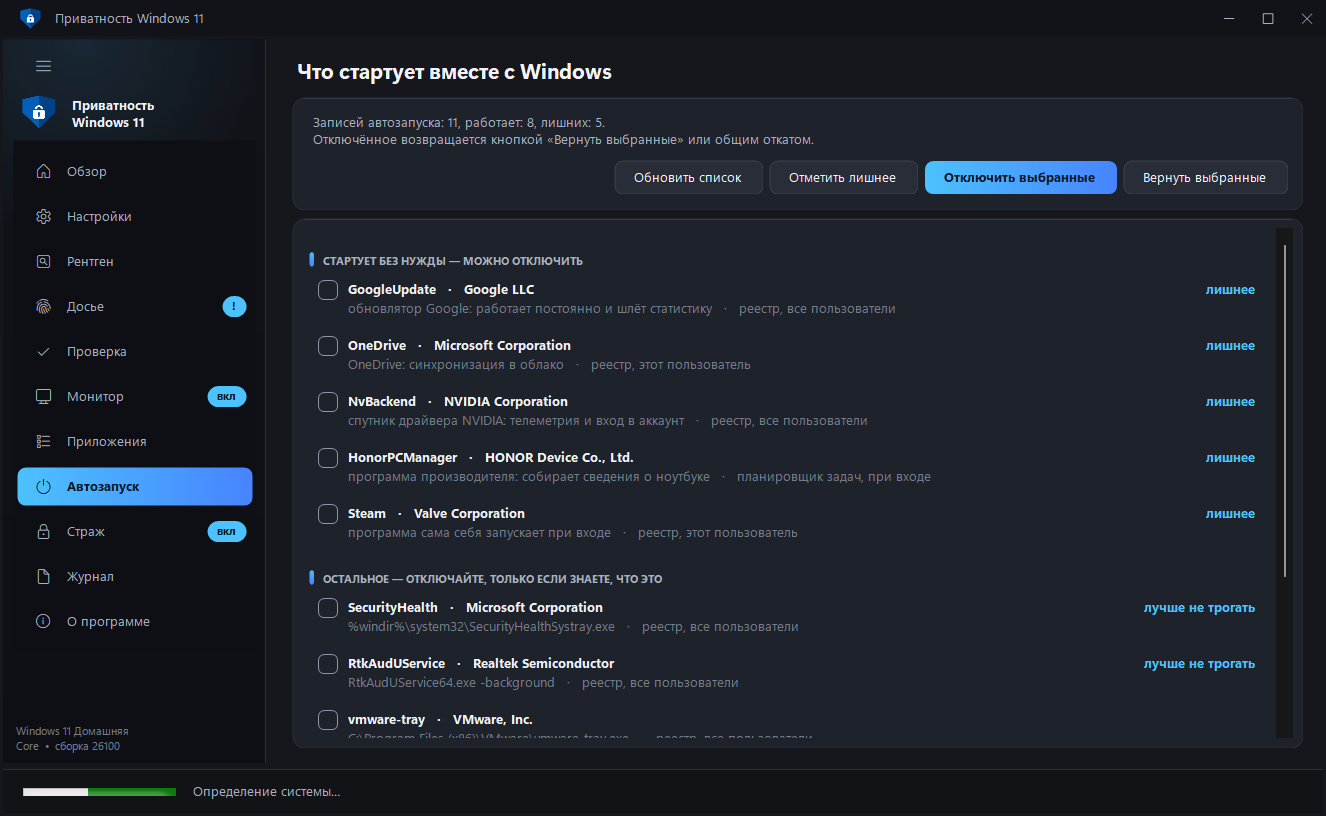
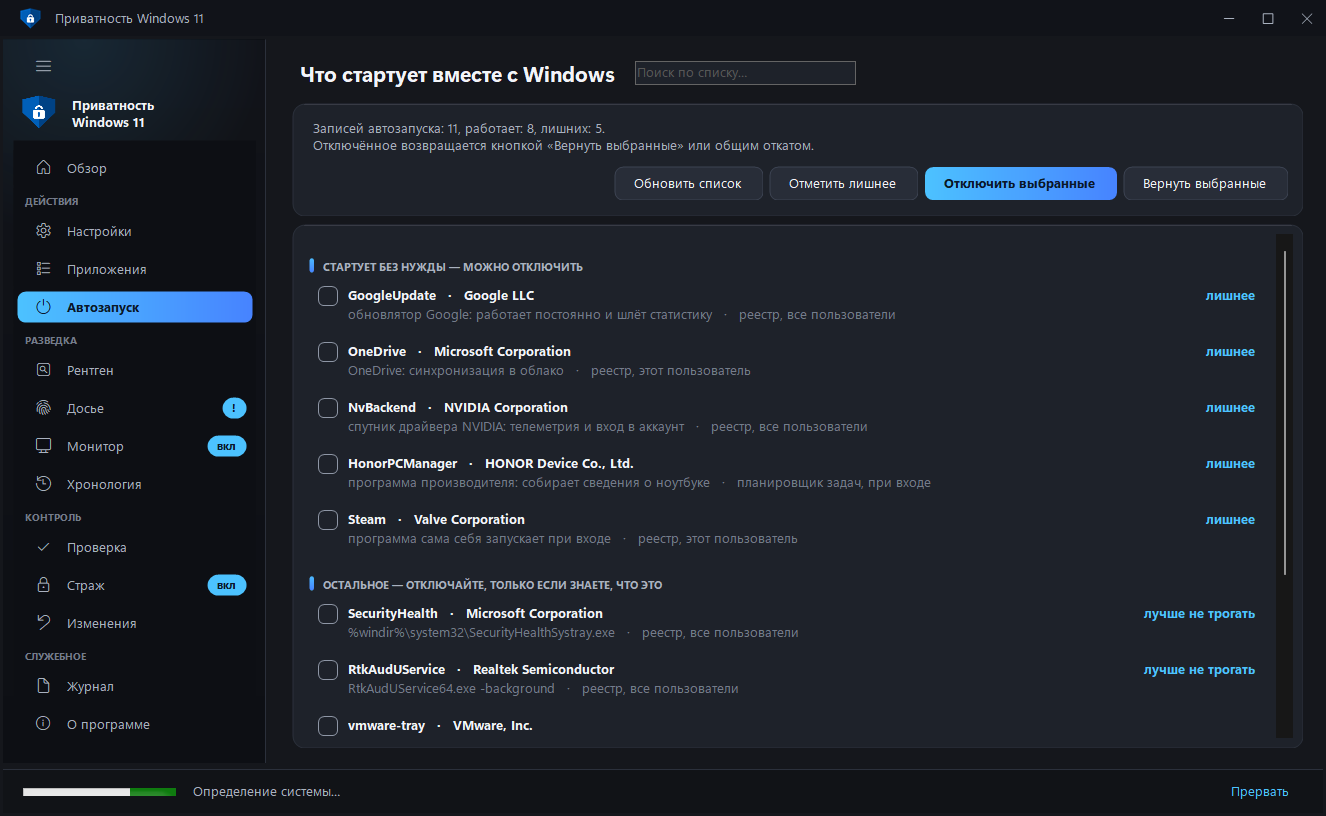
Английский интерфейс был наполовину русским — и это было видно на снимках
Скриншоты в английском README оказались русскими, но переснять их было мало:
часть подписей приходит от движка данными, а не литералами интерфейса, и
tools/check_lang.py их не видел — он читал только исходники C#. В английской
сборке по-русски оставались названия и описания фактов рентгена, категории
телеметрии, названия предустановленных приложений, подписи файлов на «О
программе» и слова «было / стало / где» на «Изменениях».

- переведено 85 строк движка (lang-en6.txt), словарь 1016 -> 1099 пар;
- «Изменения» пропускают «было / стало / где» через перевод: движок отдаёт
  их словами («запускалась», «не было», «автозагрузка»);
- проверка перевода теперь читает и движок: title/what/was/now/where и
  словари вида «идентификатор = человеческое название». Проверено: если
  убрать перевод строки движка, tools/check_lang.py падает;
- тестовые данные больше не прибиты по-русски и называют настройки теми же
  именами, что и движок;
- сняты оба комплекта снимков: docs/ — русские, docs/en/ — английские,
  английский README ссылается на свои. Заодно на них виден нынешний вид:
  группы в боковой панели и полоса внимания.

diff --git a/Lang.cs b/Lang.cs
@@ -40,7 +40,7 @@ namespace Win11Privacy
 
         private static void Build()
         {
-            _map = new Dictionary<string, string>(1016, StringComparer.Ordinal);
+            _map = new Dictionary<string, string>(1099, StringComparer.Ordinal);
             _map[" ч"] = " h";
             _map[" МБ"] = " MB";
             _map[" ч "] = " h ";
@@ -1057,6 +1057,89 @@ namespace Win11Privacy
             _map["Текстовый файл (*.txt)|*.txt"] = "Text file (*.txt)|*.txt";
             _map["Приватность Windows 11, версия "] = "Windows 11 Privacy, version ";
             _map["Журнал сохранён: "] = "Log saved: ";
+            _map["Названия установленных программ"] = "Names of installed programs";
+            _map["Windows перечисляет, что у вас стоит: имя, издатель и версия каждой программы."] = "Windows lists what you have: the name, publisher and version of every program.";
+            _map["Имена запускавшихся файлов"] = "Names of the files you ran";
+            _map["В событиях видно, какие исполняемые файлы вы открывали."] = "The events show which executables you opened.";
+            _map["Модель и производитель компьютера"] = "Model and maker of the computer";
+            _map["Точная модель железа — по ней устройство узнаётся среди прочих."] = "The exact hardware model — it tells this device apart from the rest.";
+            _map["Идентификаторы, которыми вас метят"] = "The identifiers you are tagged with";
+            _map["Постоянные номера устройства и учётной записи: по ним события связываются в один профиль."] = "Permanent device and account numbers: they tie the events into a single profile.";
+            _map["Серийные номера железа"] = "Hardware serial numbers";
+            _map["Серийный номер не меняется никогда — это самая надёжная метка устройства."] = "A serial number never changes — it is the most reliable mark of a device.";
+            _map["Начинка компьютера"] = "What is inside the computer";
+            _map["Процессор, память, диски и видеокарта — подробная опись железа."] = "Processor, memory, drives and graphics card — a detailed hardware inventory.";
+            _map["Сетевые адреса и имена сетей"] = "Network addresses and network names";
+            _map["MAC-адрес и названия сетей говорят, где физически стоит компьютер."] = "The MAC address and network names tell where the computer physically stands.";
+            _map["Учётная запись и язык"] = "Account and language";
+            _map["Имя пользователя, страна, часовой пояс и раскладка."] = "User name, country, time zone and keyboard layout.";
+            _map["Всё, что вы подключали: принтеры, флешки, наушники, телефоны."] = "Everything you have plugged in: printers, USB sticks, headphones, phones.";
+            _map["Сбои программ с их именами"] = "Program crashes, with their names";
+            _map["Имена упавших программ и модулей — заодно видно, чем вы пользуетесь."] = "Names of crashed programs and modules — which also shows what you use.";
+            _map["Какие программы стоят на компьютере, их версии и издатели"] = "Which programs are installed, their versions and publishers";
+            _map["Что открывал, сколько времени провёл, как часто"] = "What you opened, how long you spent there, how often";
+            _map["Модель ноутбука, процессор, память, диски, серийные номера"] = "Laptop model, processor, memory, drives, serial numbers";
+            _map["Флешки, наушники, принтеры, мыши — что и когда подключал"] = "USB sticks, headphones, printers, mice — what was plugged in and when";
+            _map["Какие программы падали, с какими ошибками, имена файлов"] = "Which programs crashed, with what errors, the file names";
+            _map["Активность в браузере, посещения, проверки сайтов"] = "Browser activity, visits, site checks";
+            _map["Установка обновлений, версии, ошибки установки"] = "Update installation, versions, installation errors";
+            _map["Состояние защиты, проверки, обнаружения"] = "Protection status, scans, detections";
+            _map["Где находится компьютер, окружающие сети"] = "Where the computer is, the networks around it";
+            _map["Сетевые подключения, качество связи"] = "Network connections, link quality";
+            _map["Работа с документами и облаком"] = "Working with documents and the cloud";
+            _map["Установки из магазина, покупки, игровая активность"] = "Store installs, purchases, gaming activity";
+            _map["Что искал в меню Пуск и как использовался поиск"] = "What you searched for in the Start menu and how search was used";
+            _map["Входы в систему, привязка к учётной записи Microsoft"] = "Sign-ins and the link to a Microsoft account";
+            _map["Когда включал и выключал, время работы"] = "When it was switched on and off, and for how long";
+            _map["Служебные события самой системы сбора данных"] = "Internal events of the data collection system itself";
+            _map["События, не попавшие в известные категории"] = "Events that did not fall into any known category";
+            _map["История датчиков по дням: кто включал камеру, микрофон и геолокацию"] = "Sensor history by day: who turned on the camera, microphone and location";
+            _map["Журнал изменений: что программа поменяла и что было до неё"] = "Change journal: what the program altered and what was there before it";
+            _map["Снимок «до»: состояние системы перед первым применением"] = "The \"before\" snapshot: the state of the system prior to the first run";
+            _map["Последняя проверка стража"] = "The guard's last check";
+            _map["Журнал работы стража"] = "The guard's log";
+            _map["Профиль стража: какие разделы он сторожит"] = "The guard's profile: which sections it watches";
+            _map["Последний результат рентгена телеметрии"] = "The latest telemetry X-ray result";
+            _map["Эталон рентгена: сколько событий уходило до настройки"] = "X-ray baseline: how many events left before the settings were applied";
+            _map["Известные записи автозагрузки — по ним страж замечает новые"] = "Known startup entries — the guard spots new ones against them";
+            _map["Список программ, которым доступ к датчикам уже известен"] = "Programs whose access to the sensors is already known";
+            _map["Снимок состояния или служебный файл"] = "A state snapshot or an internal file";
+            _map["NVIDIA (драйвер и GeForce)"] = "NVIDIA (driver and GeForce)";
+            _map["запускалась"] = "used to start";
+            _map["была отключена"] = "was switched off";
+            _map["отключена"] = "switched off";
+            _map["не было"] = "not set";
+            _map["автозагрузка"] = "startup";
+            _map["на месте"] = "in place";
+            _map["сбито"] = "knocked out";
+            _map["Новости MSN"] = "MSN News";
+            _map["Погода MSN"] = "MSN Weather";
+            _map["Поиск Bing в Пуске"] = "Bing search in Start";
+            _map["Финансы MSN"] = "MSN Money";
+            _map["Спорт MSN"] = "MSN Sport";
+            _map["Видеоредактор Clipchamp"] = "Clipchamp video editor";
+            _map["Приложение Xbox"] = "Xbox app";
+            _map["Игровая панель Xbox"] = "Xbox Game Bar";
+            _map["Вход Xbox"] = "Xbox sign-in";
+            _map["Субтитры Xbox"] = "Xbox captions";
+            _map["Коллекция пасьянсов"] = "Solitaire Collection";
+            _map["Промо Microsoft 365"] = "Microsoft 365 promo";
+            _map["OneNote из магазина"] = "OneNote from the Store";
+            _map["Teams (личный)"] = "Teams (personal)";
+            _map["Связь с телефоном"] = "Phone Link";
+            _map["Люди"] = "People";
+            _map["Карты"] = "Maps";
+            _map["Центр отзывов"] = "Feedback Hub";
+            _map["Справка"] = "Get Help";
+            _map["Советы"] = "Tips";
+            _map["Просмотр 3D"] = "3D Viewer";
+            _map["Портал смешанной реальности"] = "Mixed Reality Portal";
+            _map["Медиапроигрыватель"] = "Media Player";
+            _map["Фильмы и ТВ"] = "Movies & TV";
+            _map["Быстрая помощь"] = "Quick Assist";
+            _map["Copilot (компонент)"] = "Copilot (component)";
+            _map["Новый Outlook"] = "New Outlook";
+            _map["Записки"] = "Sticky Notes";
         }
     }
 }

diff --git a/Mocks.cs b/Mocks.cs
@@ -39,7 +39,7 @@ namespace Win11Privacy
                 "{\"ip\":\"20.190.160.14\",\"domain\":\"login.microsoftonline.com\",\"count\":6,\"port\":\"443\"}]}";
             RenderMonitor(Json.ParseObject(mon));
 
-            string det = "{\"os\":\"Windows 11 Домашняя\",\"build\":\"26100\",\"edition\":\"Core\",\"editionKind\":\"home\",\"guardInstalled\":true,\"monitorEnabled\":true," +
+            string det = "{\"os\":\"" + (L.English ? "Windows 11 Home" : "Windows 11 Домашняя") + "\",\"build\":\"26100\",\"edition\":\"Core\",\"editionKind\":\"home\",\"guardInstalled\":true,\"monitorEnabled\":true," +
                 "\"guardModules\":[\"telemetry\",\"ads\",\"copilot\"],\"guardLast\":{\"time\":\"2026-08-31 12:00\",\"drifted\":[\"AllowTelemetry\",\"ShowCopilotButton\"],\"fixed\":2,\"hotfixes\":[\"KB5054321\"]}," +
                 "\"firewallRules\":6,\"hostsBlocked\":true,\"diagTrack\":\"Disabled\",\"buffer\":{\"mb\":\"4.7\",\"files\":9}," +
                 "\"apps\":[{\"id\":\"app_nvidia\",\"found\":true},{\"id\":\"app_vscode\",\"found\":true},{\"id\":\"app_chrome\",\"found\":true},{\"id\":\"app_firefox\",\"found\":false},{\"id\":\"app_office\",\"found\":false},{\"id\":\"app_devtools\",\"found\":true},{\"id\":\"app_vs\",\"found\":false}]," +
@@ -146,8 +146,8 @@ namespace Win11Privacy
             string changesJson = "{\"count\":4,\"raw\":37,\"updated\":\"2026-09-01T21:14:00\",\"items\":[" +
                 "{\"id\":\"c1\",\"kind\":\"startup\",\"title\":\"GoogleUpdate\",\"where\":\"автозагрузка\",\"was\":\"запускалась\",\"now\":\"отключена\",\"time\":\"2026-09-01T21:14:00\",\"count\":1}," +
                 "{\"id\":\"c2\",\"kind\":\"reg\",\"title\":\"уровень телеметрии — минимальный\",\"where\":\"HKLM:\\\\SOFTWARE\\\\Policies\\\\Microsoft\\\\Windows\\\\DataCollection\",\"was\":\"3\",\"now\":\"0\",\"time\":\"2026-09-01T20:58:00\",\"count\":2}," +
-                "{\"id\":\"c3\",\"kind\":\"reg\",\"title\":\"рекламный идентификатор — выкл\",\"where\":\"HKCU:\\\\SOFTWARE\\\\Microsoft\\\\Windows\\\\CurrentVersion\\\\AdvertisingInfo\",\"was\":\"не было\",\"now\":\"0\",\"time\":\"2026-09-01T20:58:00\",\"count\":1}," +
-                "{\"id\":\"c4\",\"kind\":\"reg\",\"title\":\"Copilot в Windows — выкл\",\"where\":\"HKCU:\\\\SOFTWARE\\\\Policies\\\\Microsoft\\\\Windows\\\\WindowsCopilot\",\"was\":\"не было\",\"now\":\"1\",\"time\":\"2026-09-01T20:58:00\",\"count\":1}]}";
+                "{\"id\":\"c3\",\"kind\":\"reg\",\"title\":\"рекламный ID — выкл\",\"where\":\"HKCU:\\\\SOFTWARE\\\\Microsoft\\\\Windows\\\\CurrentVersion\\\\AdvertisingInfo\",\"was\":\"не было\",\"now\":\"0\",\"time\":\"2026-09-01T20:58:00\",\"count\":1}," +
+                "{\"id\":\"c4\",\"kind\":\"reg\",\"title\":\"Windows Copilot — выкл\",\"where\":\"HKCU:\\\\SOFTWARE\\\\Policies\\\\Microsoft\\\\Windows\\\\WindowsCopilot\",\"was\":\"не было\",\"now\":\"1\",\"time\":\"2026-09-01T20:58:00\",\"count\":1}]}";
             RenderChanges(Json.ParseObject(changesJson));
 
             StringBuilder tl = new StringBuilder();
@@ -174,8 +174,8 @@ namespace Win11Privacy
                 "{\"date\":\"22.08\",\"kind\":\"drift\",\"a\":6,\"b\":6,\"list\":\"\"}," +
                 "{\"date\":\"29.08\",\"kind\":\"update\",\"a\":0,\"b\":0,\"list\":\"KB5070101\"}]}");
             RenderTimeline(Json.ParseObject(tl.ToString()));
-            if (_qcStartup != null) _qcStartup.SetStatus("5 лишних из 8", Theme.Warn);
-            if (_qcTimeline != null) _qcTimeline.SetStatus("29.08 — обновление Windows", Theme.Accent);
+            if (_qcStartup != null) _qcStartup.SetStatus(5 + L.T(" лишних из ") + 8, Theme.Warn);
+            if (_qcTimeline != null) _qcTimeline.SetStatus("29.08 — " + L.T("обновление Windows"), Theme.Accent);
 
             SetAboutBody(_aboutData, "Папка: C:\\ProgramData\\Win11Privacy\n" +
                 "• История датчиков по дням: кто включал камеру, микрофон и геолокацию — 9,9 КБ, изменён 2026-09-01 20:03\n" +
@@ -189,7 +189,7 @@ namespace Win11Privacy
 
             RefreshHome();
             _xrayRecording = true;
-            _btnXrayRec.Text = "Выключить запись"; _btnXrayRec.Primary = false;
+            _btnXrayRec.Text = L.T("Выключить запись"); _btnXrayRec.Primary = false;
             foreach (Control c in _xrayList.Controls) { if (c is XrayCatRow) { ((XrayCatRow)c).Expand(); break; } }
         }
 #endif

diff --git a/tools/check_lang.py b/tools/check_lang.py
@@ -42,6 +42,15 @@ def dicts(root):
 
     return sorted(names, key=num)
 LIT = re.compile(r'L\.T\("((?:[^"\\]|\\.)*)"\)')
+# Движок отдаёт часть подписей данными, а не литералами интерфейса: названия и
+# описания фактов рентгена, категории телеметрии, подписи файлов на странице
+# «О программе». Интерфейс пропускает их через L.T, но найти их можно только
+# в самом движке.
+ENGINE = 'Win11-Privacy-Engine.ps1'
+ENGINE_LIT = [
+    re.compile(r"(?:title|what|was|now|where)\s*=\s*'([^']{3,})'"),   # факты, категории, состояния
+    re.compile(r"^\s*'[^']+'\s*=\s*'([^']{3,})'\s*$", re.M),        # словари вида имя = «человеческое название»
+]
 CYR = re.compile(u'[Ѐ-ӿ]')
 
 
@@ -85,6 +94,16 @@ def main():
                 continue
             seen.add(key)
             missing.append((name, key))
+
+    engine = os.path.join(root, ENGINE)
+    if os.path.exists(engine):
+        text = io.open(engine, encoding='utf-8-sig').read()
+        for rx in ENGINE_LIT:
+            for raw in rx.findall(text):
+                if raw in known or raw in seen or not CYR.search(raw):
+                    continue
+                seen.add(raw)
+                missing.append((ENGINE, raw))
 
     if not missing:
         sys.stdout.write('all translated\n')

diff --git a/MainForm.cs b/MainForm.cs
@@ -1221,8 +1221,10 @@ namespace Win11Privacy
             foreach (object o in items)
             {
                 Dictionary<string, object> it = Json.Obj(o);
-                string was = Json.GetStr(it, "was"), now = Json.GetStr(it, "now");
-                string what = L.T("было: ") + was + L.T("   ·   стало: ") + now + "   ·   " + Json.GetStr(it, "where");
+                // движок отдаёт эти поля словами, а не числами: «запускалась»,
+                // «не было», «автозагрузка» — их тоже надо переводить
+                string was = L.T(Json.GetStr(it, "was")), now = L.T(Json.GetStr(it, "now"));
+                string what = L.T("было: ") + was + L.T("   ·   стало: ") + now + "   ·   " + L.T(Json.GetStr(it, "where"));
                 WipeRow r = new WipeRow(Json.GetStr(it, "id"), L.T(Json.GetStr(it, "title")), what,
                                         Json.GetStr(it, "time").Replace("T", " "),
                                         Json.GetStr(it, "kind") == "startup" ? GPower : GUndo, true);

diff --git a/README.md b/README.md
@@ -16,7 +16,7 @@ about you. Watches so that updates do not quietly turn the tracking back on.**
 
 </div>
 
-<img src="docs/home.png" alt="Overview">
+<img src="docs/en/home.png" alt="Overview">
 
 ---
 
@@ -121,23 +121,23 @@ into Windows, and the engine is embedded inside the exe.
 
 | Settings — a module expanded into individual items | Dossier — who turned on the camera and microphone |
 |---|---|
-| <img src="docs/settings.png" alt="Settings"> | <img src="docs/dossier.png" alt="Dossier"> |
+| <img src="docs/en/settings.png" alt="Settings"> | <img src="docs/en/dossier.png" alt="Dossier"> |
 
 | Apps — removing preinstalled software | Telemetry X-ray |
 |---|---|
-| <img src="docs/apps.png" alt="Apps"> | <img src="docs/xray.png" alt="X-ray"> |
+| <img src="docs/en/apps.png" alt="Apps"> | <img src="docs/en/xray.png" alt="X-ray"> |
 
 | Audit — the index, what was not applied, and what does not exist on this Windows |
 |---|
-| <img src="docs/audit.png" alt="Audit"> |
+| <img src="docs/en/audit.png" alt="Audit"> |
 
 | Startup — what launches with Windows | Monitor — who is sending, and who is cut off |
 |---|---|
-| <img src="docs/startup.png" alt="Startup"> | <img src="docs/monitor.png" alt="Monitor"> |
+| <img src="docs/en/startup.png" alt="Startup"> | <img src="docs/en/monitor.png" alt="Monitor"> |
 
 | Changes — what the program altered and how to undo it | Timeline — telemetry by day and Windows updates |
 |---|---|
-| <img src="docs/changes.png" alt="Changes"> | <img src="docs/timeline.png" alt="Timeline"> |
+| <img src="docs/en/changes.png" alt="Changes"> | <img src="docs/en/timeline.png" alt="Timeline"> |
 
 ---
 
